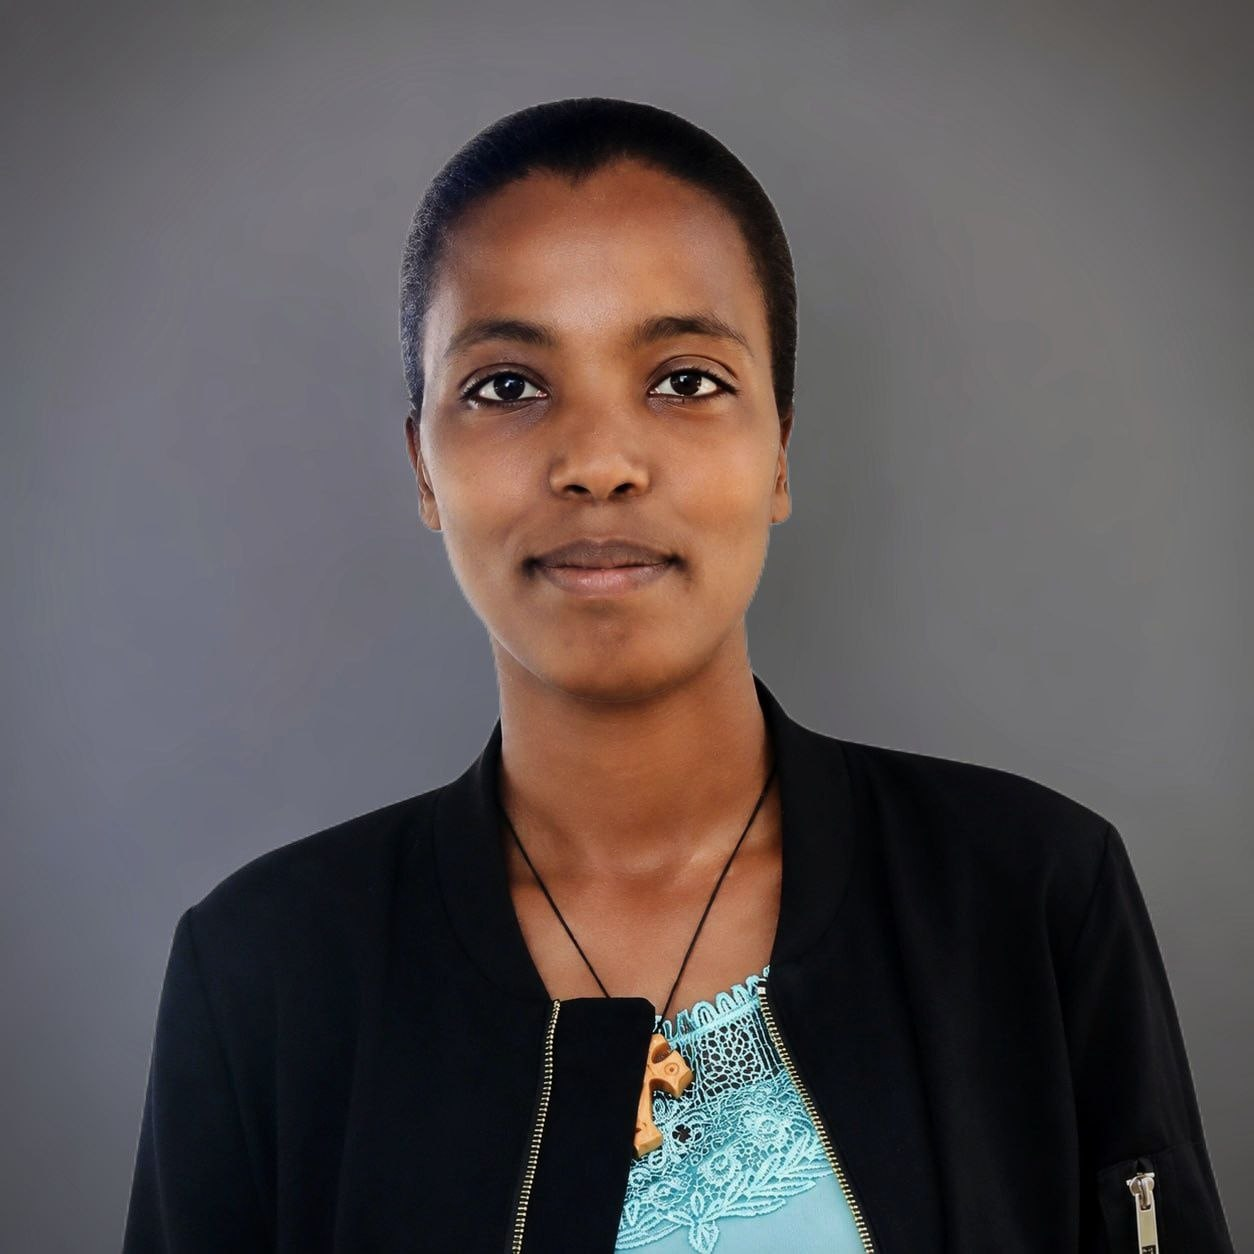
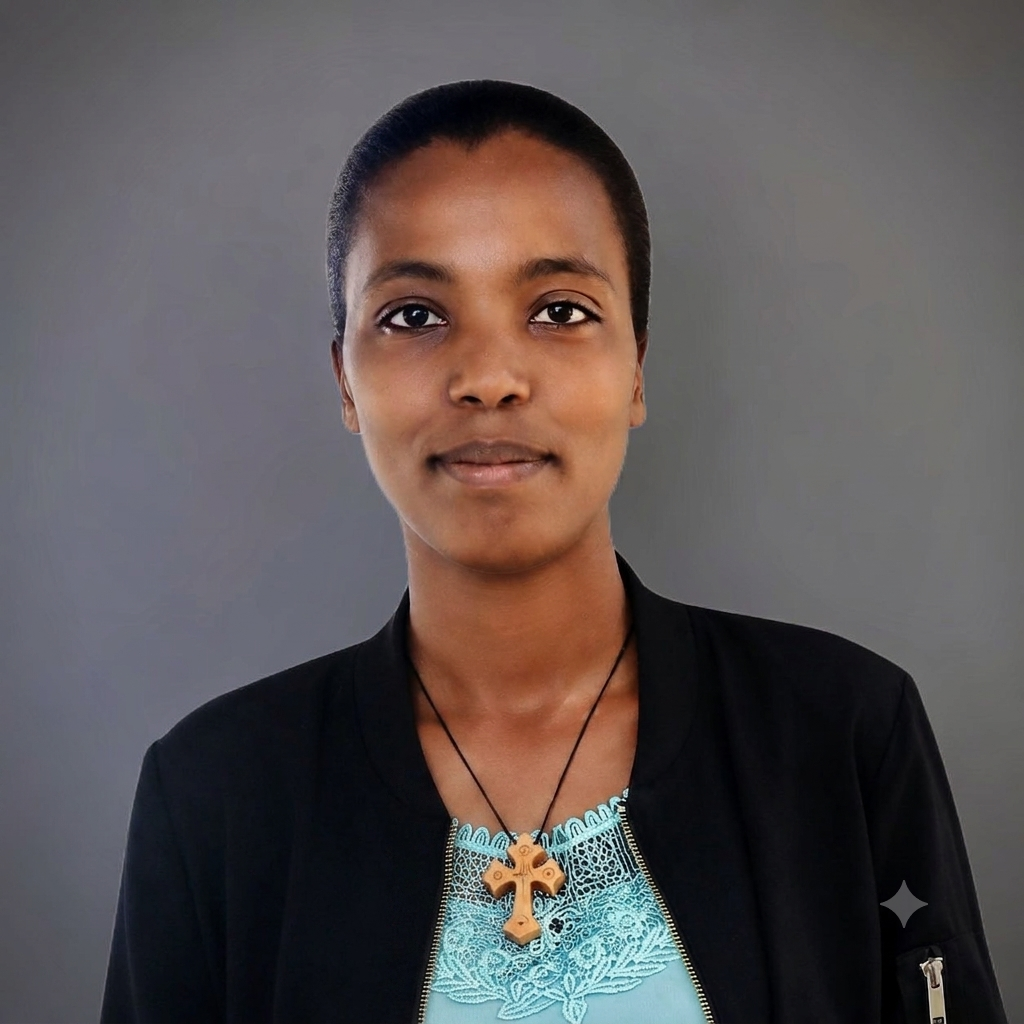
Add Experience timeline section

Changed region(s): [[0.4062, 0.7812, 0.6875, 1.0], [0.8438, 0.8438, 0.9062, 0.9062], [0.9062, 0.9375, 0.9375, 0.9688]]

diff --git a/src/components/Footer/Footer.jsx b/src/components/Footer/Footer.jsx
@@ -1,0 +1,73 @@
+import "./Footer.css";
+import { FaGithub, FaLinkedin, FaEnvelope, FaArrowUp } from "react-icons/fa";
+
+function Footer() {
+  const year = new Date().getFullYear();
+
+  return (
+    <footer className="footer">
+
+      <div className="footer-container">
+
+        <div className="footer-logo">
+          <h2>Wubalem Gashaw</h2>
+          <p>Frontend & Full Stack Developer</p>
+        </div>
+
+        <div className="footer-links">
+          <h3>Quick Links</h3>
+
+          <a href="#home">Home</a>
+          <a href="#about">About</a>
+          <a href="#skills">Skills</a>
+          <a href="#projects">Projects</a>
+          <a href="#contact">Contact</a>
+        </div>
+
+        <div className="footer-social">
+          <h3>Connect</h3>
+
+          <a
+            href="https://github.com/WUBALEM844"
+            target="_blank"
+            rel="noreferrer"
+          >
+            <FaGithub /> GitHub
+          </a>
+
+          <a
+            href="https://www.linkedin.com/in/wubalem-gashaw-ba4a37362/"
+            target="_blank"
+            rel="noreferrer"
+          >
+            <FaLinkedin /> LinkedIn
+          </a>
+
+          <a href="mailto:wubalemgashaw@gmail.com">
+            <FaEnvelope /> Email
+          </a>
+        </div>
+
+      </div>
+
+      <button
+        className="back-top"
+        onClick={() =>
+          window.scrollTo({
+            top: 0,
+            behavior: "smooth",
+          })
+        }
+      >
+        <FaArrowUp />
+      </button>
+
+      <div className="footer-bottom">
+        © {year} Wubalem Gashaw. All Rights Reserved.
+      </div>
+
+    </footer>
+  );
+}
+
+export default Footer;

diff --git a/src/components/Footer/Footer.css b/src/components/Footer/Footer.css
@@ -1,0 +1,90 @@
+.footer{
+    background:#0f172a;
+    color:white;
+    padding:60px 8% 20px;
+    margin-top:100px;
+}
+
+.footer-container{
+    display:grid;
+    grid-template-columns:repeat(auto-fit,minmax(250px,1fr));
+    gap:40px;
+}
+
+.footer-logo h2{
+    color:#38bdf8;
+    margin-bottom:10px;
+}
+
+.footer-logo p{
+    color:#cbd5e1;
+}
+
+.footer-links,
+.footer-social{
+    display:flex;
+    flex-direction:column;
+}
+
+.footer-links h3,
+.footer-social h3{
+    margin-bottom:15px;
+}
+
+.footer-links a,
+.footer-social a{
+    color:#cbd5e1;
+    text-decoration:none;
+    margin-bottom:10px;
+    transition:.3s;
+}
+
+.footer-links a:hover,
+.footer-social a:hover{
+    color:#38bdf8;
+}
+
+.footer-social svg{
+    margin-right:8px;
+}
+
+.back-top{
+    width:50px;
+    height:50px;
+    border:none;
+    border-radius:50%;
+    background:#2563eb;
+    color:white;
+    cursor:pointer;
+    position:fixed;
+    right:30px;
+    bottom:30px;
+    font-size:18px;
+    transition:.3s;
+}
+
+.back-top:hover{
+    transform:translateY(-5px);
+    background:#1d4ed8;
+}
+
+.footer-bottom{
+    text-align:center;
+    margin-top:40px;
+    padding-top:20px;
+    border-top:1px solid #334155;
+    color:#94a3b8;
+}
+
+@media(max-width:768px){
+
+.footer{
+    text-align:center;
+}
+
+.footer-links,
+.footer-social{
+    align-items:center;
+}
+
+}

diff --git a/src/data/experience.js b/src/data/experience.js
@@ -1,0 +1,30 @@
+const experience = [
+  {
+    id: 1,
+    title: "Information Technology Student",
+    company: "Wolkite University",
+    period: "2023 - Present",
+    description:
+      "Studying Information Technology with practical experience in web development, databases, networking, and software engineering.",
+  },
+
+  {
+    id: 2,
+    title: "Frontend React Developer",
+    company: "Personal Projects",
+    period: "2025 - Present",
+    description:
+      "Building responsive React applications using React.js, Material UI, JavaScript, and REST APIs.",
+  },
+
+  {
+    id: 3,
+    title: "Full Stack Developer",
+    company: "Digital Library Management System",
+    period: "2026",
+    description:
+      "Developed a Digital Library Management System using React, Node.js, Express.js, and MySQL with authentication and CRUD operations.",
+  },
+];
+
+export default experience;

diff --git a/src/components/Experience/Experience.css b/src/components/Experience/Experience.css
@@ -1,0 +1,59 @@
+.experience{
+    padding:100px 8%;
+    background:#f8fafc;
+}
+
+.timeline{
+    max-width:900px;
+    margin:50px auto;
+    position:relative;
+    border-left:3px solid #2563eb;
+}
+
+.timeline-item{
+    position:relative;
+    padding:20px 30px;
+    margin-bottom:40px;
+}
+
+.timeline-item::before{
+    content:"";
+    width:18px;
+    height:18px;
+    background:#2563eb;
+    border-radius:50%;
+    position:absolute;
+    left:-11px;
+    top:28px;
+}
+
+.timeline-date{
+    color:#2563eb;
+    font-weight:bold;
+}
+
+.timeline-item h3{
+    margin:10px 0 5px;
+}
+
+.timeline-item h4{
+    color:#64748b;
+    margin-bottom:10px;
+}
+
+.timeline-item p{
+    line-height:1.7;
+    color:#475569;
+}
+
+@media(max-width:768px){
+
+.timeline{
+    border-left:2px solid #2563eb;
+}
+
+.timeline-item{
+    padding-left:25px;
+}
+
+}

diff --git a/src/components/Experience/Experience.jsx b/src/components/Experience/Experience.jsx
@@ -1,0 +1,26 @@
+import "./Experience.css";
+import experience from "../../data/experience";
+
+function Experience() {
+  return (
+    <section className="experience" id="experience">
+      <h2 className="section-title">Experience</h2>
+
+      <div className="timeline">
+        {experience.map((item) => (
+          <div className="timeline-item" key={item.id}>
+            <span className="timeline-date">{item.period}</span>
+
+            <h3>{item.title}</h3>
+
+            <h4>{item.company}</h4>
+
+            <p>{item.description}</p>
+          </div>
+        ))}
+      </div>
+    </section>
+  );
+}
+
+export default Experience;

diff --git a/src/components/Contact/Contact.jsx b/src/components/Contact/Contact.jsx
@@ -44,11 +44,18 @@ function Contact() {
 
           <div className="contact-item">
             <strong>Email:</strong>
-            <span>
-              wubalemgashaw@gmail.com
-            </span>
+            <span>wubalemgashaw@gmail.com</span>
           </div>
 
+          <div className="contact-item">
+            <strong>Phone:</strong>
+            <span>+251 964 494 233</span>
+          </div>
+
+          <div className="contact-item">
+            <strong>Location:</strong>
+            <span>Wolkite, Southern Nations, Ethiopia</span>
+          </div>
 
           <div className="social-links">
 

diff --git a/src/pages/Home.jsx b/src/pages/Home.jsx
@@ -4,6 +4,8 @@ import About from "../components/About/About";
 import Skills from "../components/Skills/Skills";
 import Projects from "../components/Projects/Projects";
 import Contact from "../components/Contact/Contact";
+import Footer from "../components/Footer/Footer";
+import Experience from "../components/Experience/Experience";
 function Home() {
   return (
     <>
@@ -13,6 +15,8 @@ function Home() {
       <Skills />
       <Projects />
       <Contact />
+      <Experience />    
+      <Footer />
     </>
   );
 }

diff --git a/src/components/Contact/Contact.css b/src/components/Contact/Contact.css
@@ -24,12 +24,23 @@
 
 
 .contact-item{
-    margin:20px 0;
+    margin:18px 0;
     display:flex;
     flex-direction:column;
-    gap:5px;
+    gap:8px;
 }
 
+.contact-item strong{
+    display:block;
+    color:#38BDF8;
+    font-size:0.95rem;
+    letter-spacing:0.3px;
+}
+
+.contact-item span{
+    color:#e2e8f0;
+    font-size:1rem;
+}
 
 .social-links{
     display:flex;
